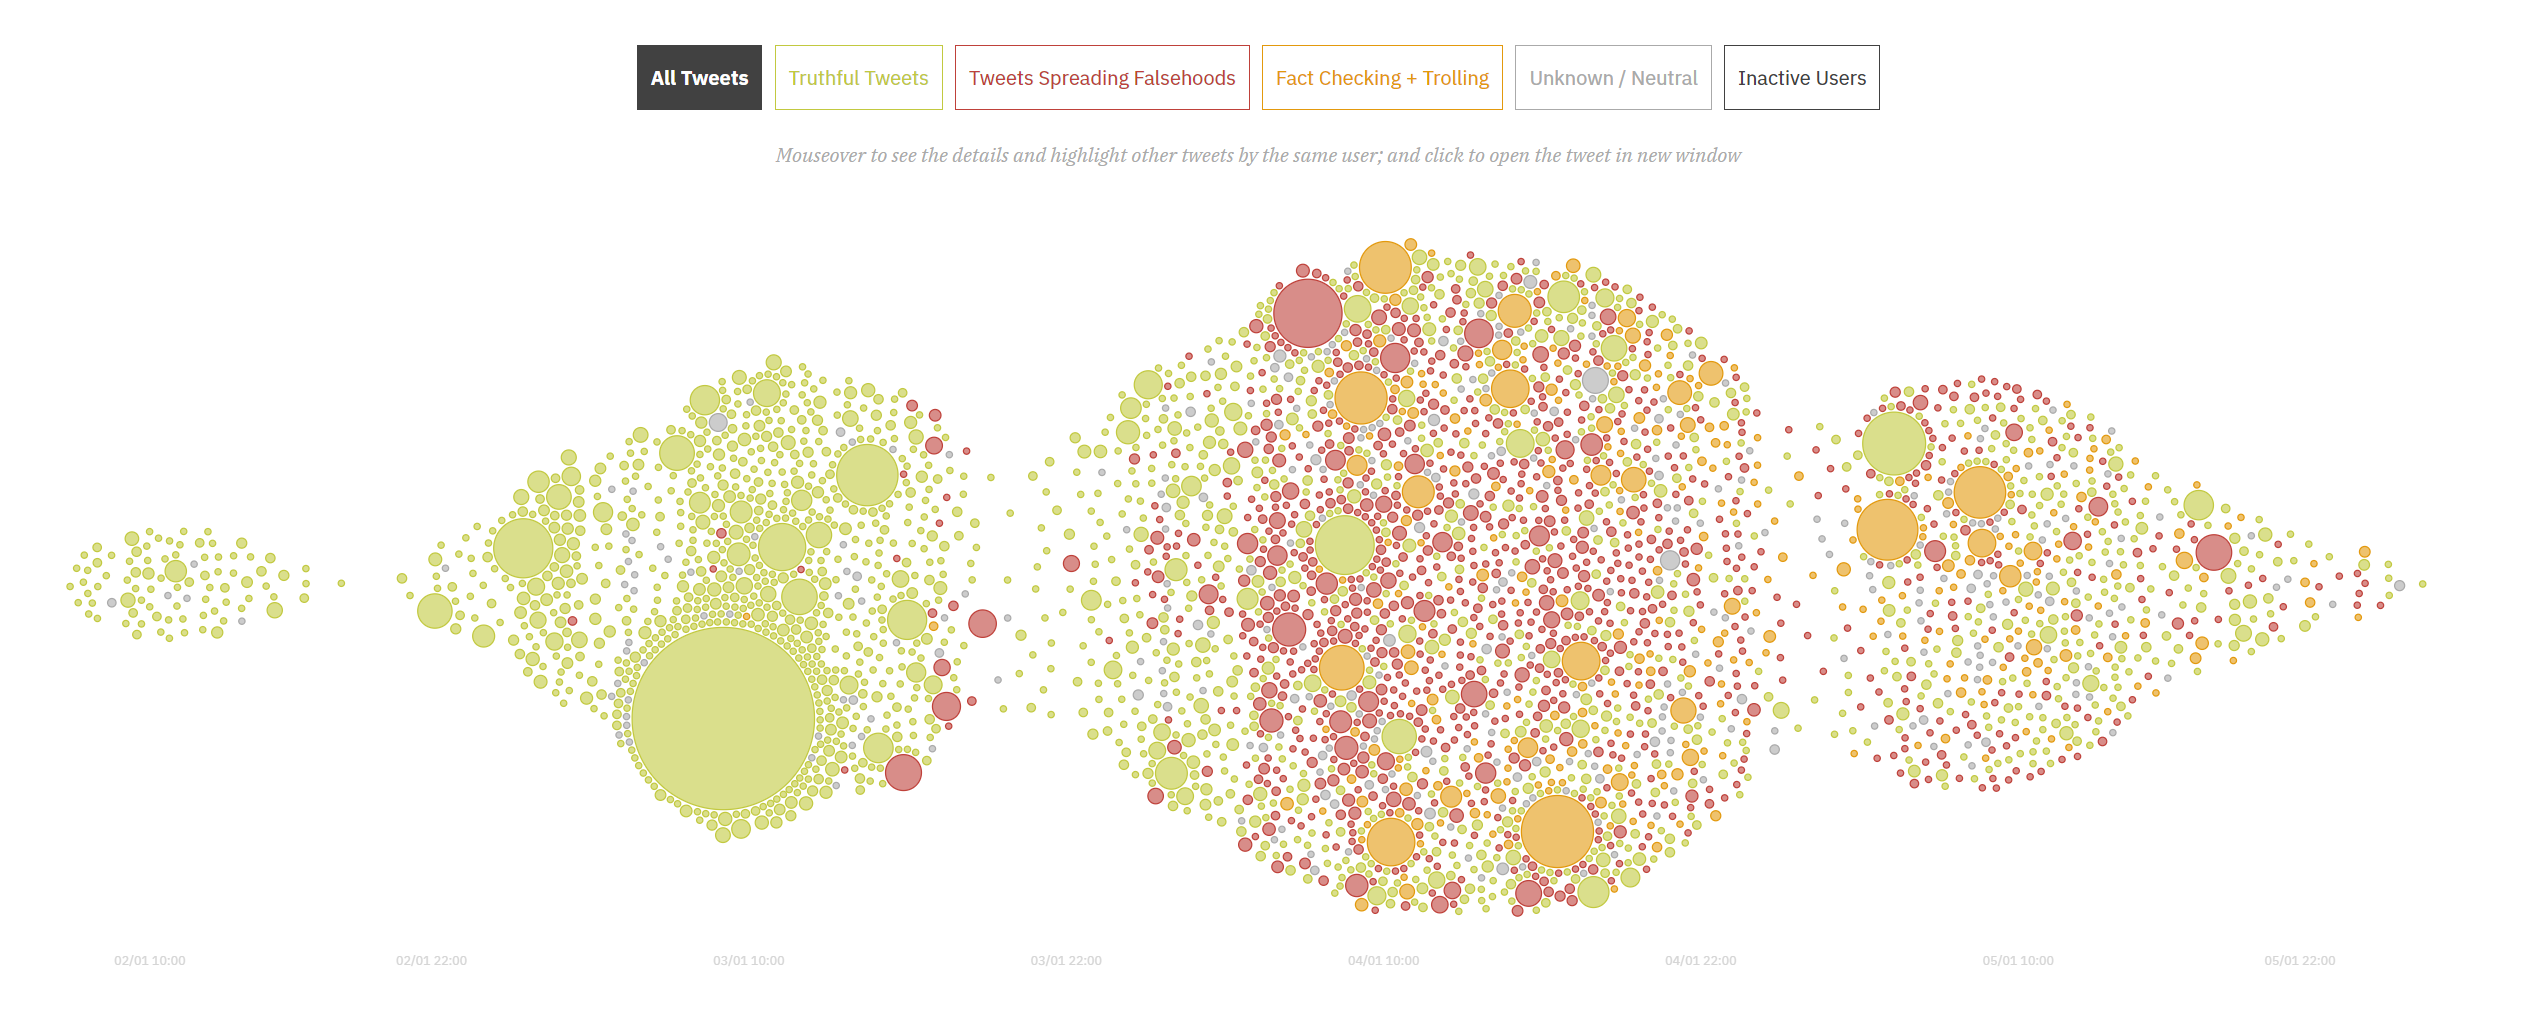
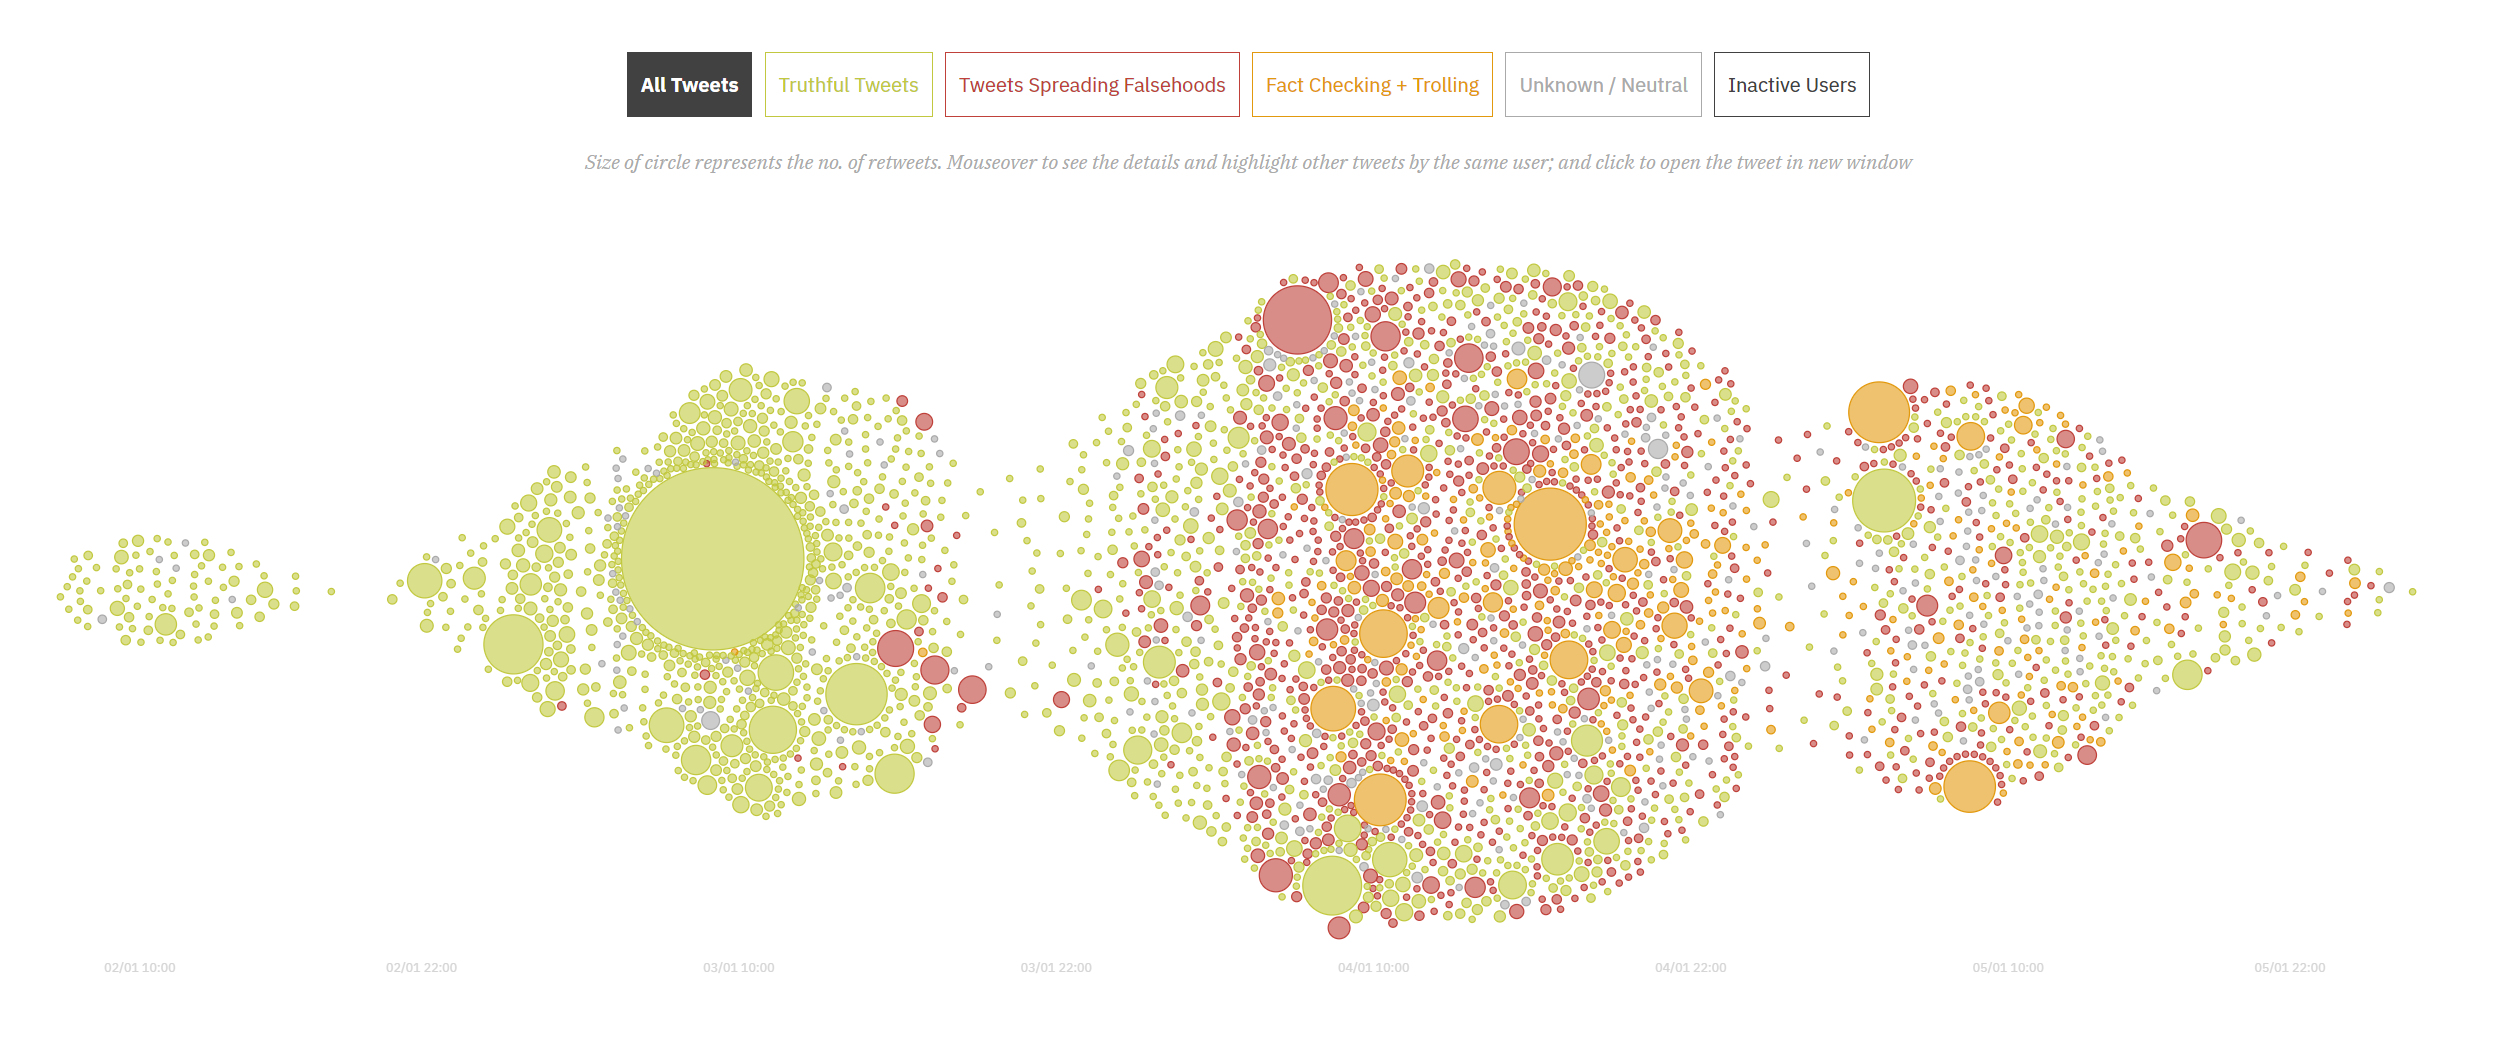
changin preview image  and the link

diff --git a/src/App.js b/src/App.js
@@ -88,10 +88,10 @@ function App() {
         <div className='share share-top'>
           <span className='footer-start'>Share the <span aria-label="love-emoji" role="img">💖</span></span>
           <div className='icons'>
-            <FacebookShareButton url='https://curiouscaseof8866288662.netlify.com/' quote="Curious case of 88662 88662: Misinformation and campaign on Twitter: ">
+            <FacebookShareButton url='https://influence-campaign-on-twitter-visualized.netlify.com/' quote="Curious case of 88662 88662: Misinformation and campaign on Twitter: ">
               <FacebookIcon size={32} round={true} />
             </FacebookShareButton>
-            <TwitterShareButton url='https://curiouscaseof8866288662.netlify.com/' title="Curious case of 88662 88662: Misinformation and campaign on Twitter: ">
+            <TwitterShareButton url='https://influence-campaign-on-twitter-visualized.netlify.com/' title="Curious case of 88662 88662: Misinformation and campaign on Twitter: ">
               <TwitterIcon size={32} round={true} />
             </TwitterShareButton>
           </div>
@@ -313,10 +313,10 @@ function App() {
           <div className='share'>
             <span className='footer-start'>You got all the way down here, consider sharing the <span aria-label="love-emoji" role="img">💖</span></span>
             <div className='icons'>
-              <FacebookShareButton url='https://curiouscaseof8866288662.netlify.com/' quote="Curious case of 88662 88662: Misinformation and campaign on Twitter: ">
+              <FacebookShareButton url='https://influence-campaign-on-twitter-visualized.netlify.com/' quote="Curious case of 88662 88662: Misinformation and campaign on Twitter: ">
                 <FacebookIcon size={32} round={true} />
               </FacebookShareButton>
-              <TwitterShareButton url='https://curiouscaseof8866288662.netlify.com/' title="Curious case of 88662 88662: Misinformation and campaign on Twitter: ">
+              <TwitterShareButton url='https://influence-campaign-on-twitter-visualized.netlify.com/' title="Curious case of 88662 88662: Misinformation and campaign on Twitter: ">
                 <TwitterIcon size={32} round={true} />
               </TwitterShareButton>
             </div>

diff --git a/public/index.html b/public/index.html
@@ -9,11 +9,11 @@
       name="description"
       content="Curious Case of 8866288662"
     />
-    <meta property="og:url"                content="https://curiouscaseof8866288662.netlify.com/" />
-    <meta property="og:type"               content="article" />
-    <meta property="og:title"              content="Curious Case of 88662 88662" />
-    <meta property="og:description"        content="Influence Campaign & Misinformation on Twitter" />
-    <meta property="og:image"              content="https://curiouscaseof8866288662.netlify.com/preview-image.png" />
+    <meta property="og:url" content="https://influence-campaign-on-twitter-visualized.netlify.com/" />
+    <meta property="og:type" content="article" />
+    <meta property="og:title" content="Curious Case of 88662 88662" />
+    <meta property="og:description" content="Visualizing the influence campaign & misinformation on Twitter" />
+    <meta property="og:image" content="https://influence-campaign-on-twitter-visualized.netlify.com/preview-image.png" />
     <link rel="apple-touch-icon" href="%PUBLIC_URL%/favicon.png" />
     <link href="https://fonts.googleapis.com/css?family=IBM+Plex+Sans:400,400i,700,700i|IBM+Plex+Serif:400,400i,700,700i&display=swap" rel="stylesheet">
     <!--

diff --git a/src/Graph.js b/src/Graph.js
@@ -252,7 +252,7 @@ class ProjectCards extends Component {
             Inactive Users
           </div>
         </div>
-        <p className='italics text-mouseover'>Mouseover to see the details and highlight other tweets by the same user; and click to open the tweet in new window</p>
+        <p className='italics text-mouseover'>Size of circle represents the no. of retweets. Mouseover to see the details and highlight other tweets by the same user; and click to open the tweet in new window</p>
         <svg width={this.props.width} height={this.props.height} ref={node => this.node = node}>
         </svg>
       </div>
